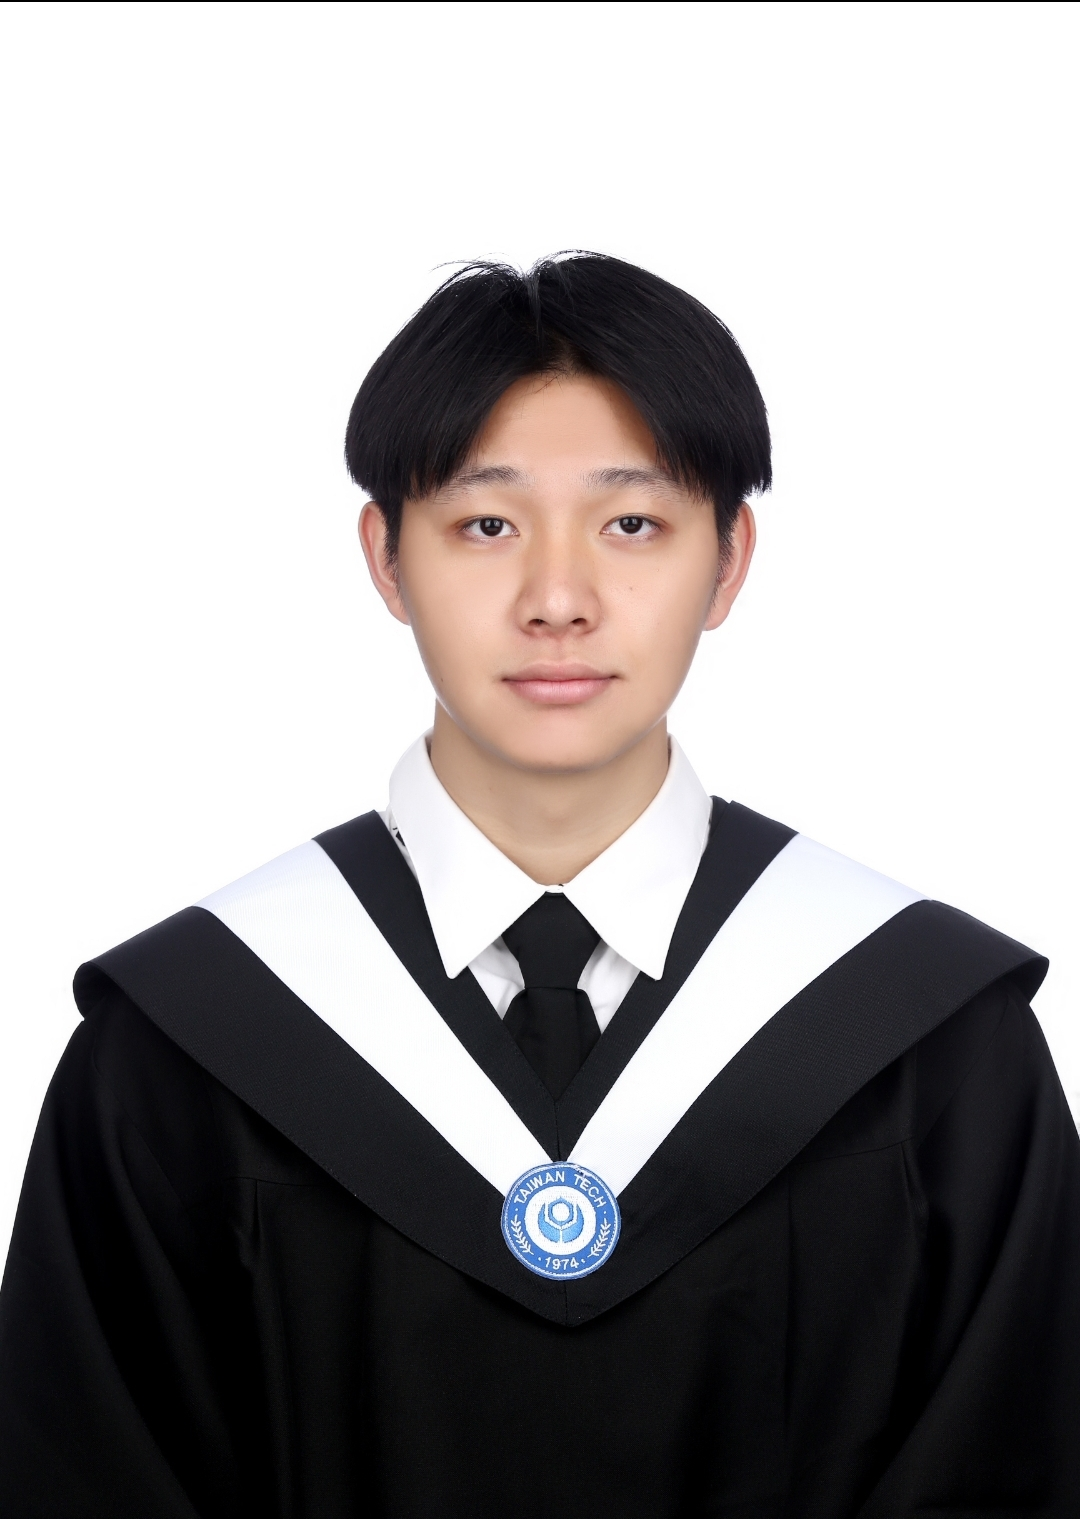
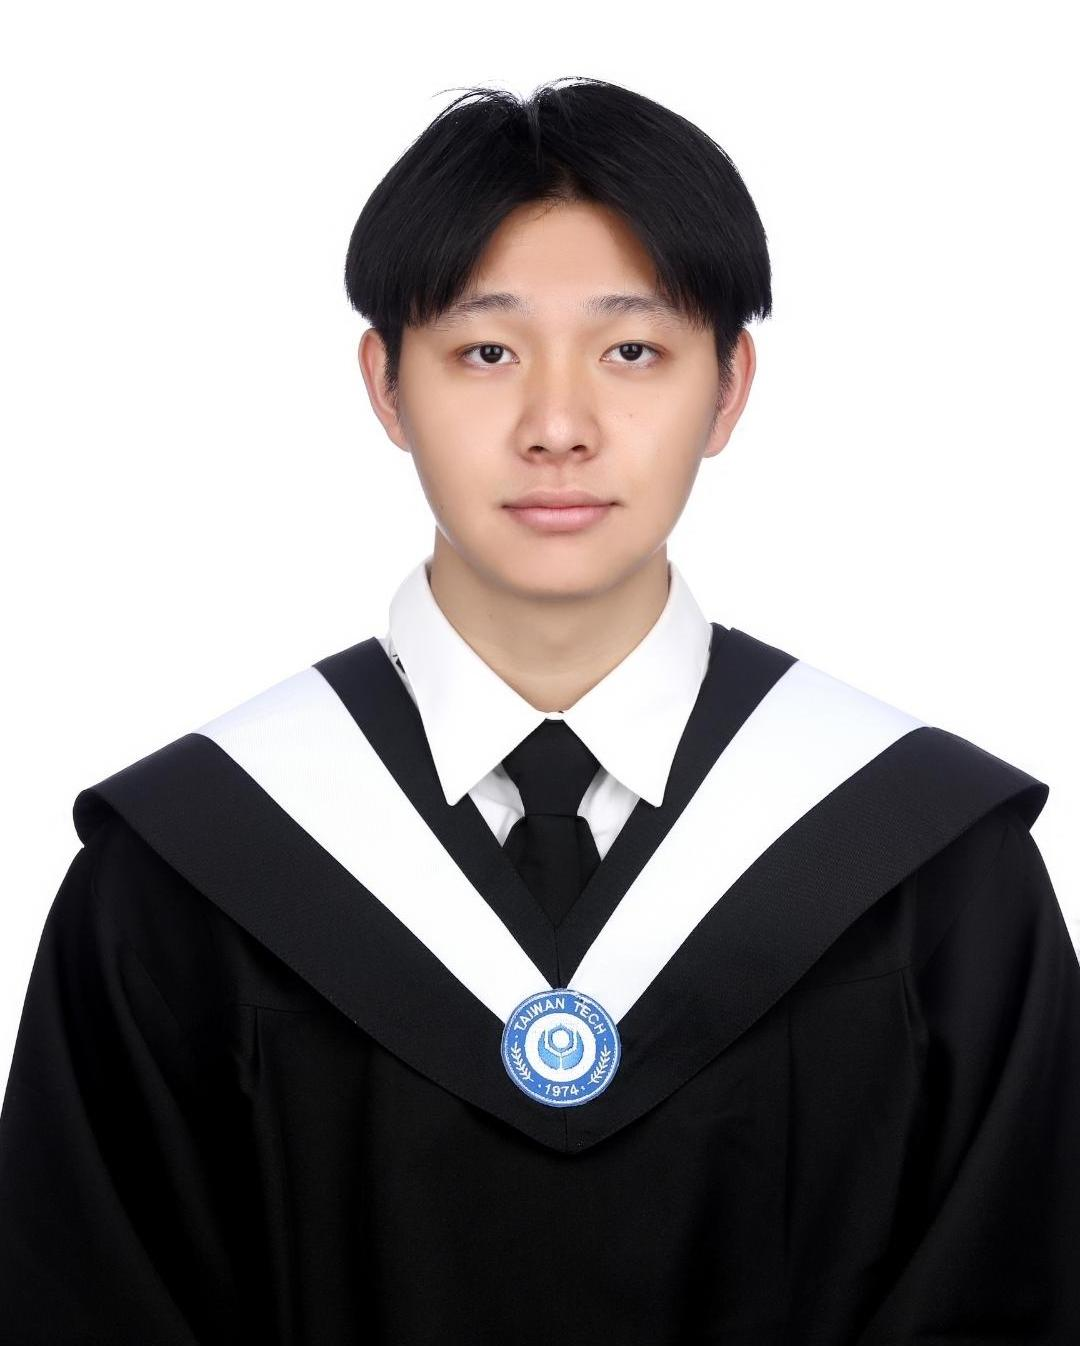
Feat: fix image size as 200*250

Changed region(s): [[0.0, 0.0312, 1.0, 0.8425]]

diff --git a/people_ch.html b/people_ch.html
@@ -87,7 +87,7 @@
 				</p> -->
 			</div>
 			<div class="navigation">
-				<img src="people/Isabella.jpg" width="200" height="256">
+				<img src="people/Isabella.jpg" width="200" height="250">
 			</div>
 		</div>
 
@@ -253,7 +253,7 @@
 					<p>鴨子車, 鴨子船, 鴨子飛船</p>
 			</div>
 			<div class="navigation">
-				<img src="people/mf.jpg" width="200" >
+				<img src="people/mf.jpg" width="200" height="250">
 			</div>
 		</div>
 
@@ -271,7 +271,7 @@
 					<p>鴨子車</p>
 			</div>
 			<div class="navigation">
-				<img src="people/julie.jpg" width="200" >
+				<img src="people/julie.jpg" width="200" height="250">
 			</div>
 		</div>
 
@@ -289,7 +289,7 @@
 					<p>鴨子車</p>
 			</div>
 			<div class="navigation">
-				<img src="people/Welly.jpg" width="200" >
+				<img src="people/Welly.jpg" width="200" height="250">
 			</div>
 		</div>
 		
@@ -307,7 +307,7 @@
 					<p>鴨子車</p>
 			</div>
 			<div class="navigation">
-				<img src="people/mikePic.jpg" width="200" >
+				<img src="people/mikePic.jpg" width="200" height="250">
 			</div>
 		</div>
 
@@ -325,7 +325,7 @@
 					<p>鴨子車</p>
 			</div>
 			<div class="navigation">
-				<img src="people/Paul.jpg" width="200" >
+				<img src="people/Paul.jpg" width="200" height="250">
 			</div>
 		</div>
 
@@ -342,7 +342,7 @@
 					<p>鴨子車</p>
 			</div>
 			<div class="navigation">
-				<img src="people/Phoebe.jpg" width="200" >
+				<img src="people/Phoebe.jpg" width="200" height="250">
 			</div>
 		</div>
 		
@@ -358,7 +358,7 @@
 					<p>機器人</p>
 			</div>
 			<div class="navigation">
-				<img src="people/LeoWang.jpeg" width="200" >
+				<img src="people/LeoWang.jpeg" width="200" height="250">
 			</div>
 		</div>
 
@@ -374,7 +374,7 @@
 					<p>機器學習</p>
 			</div>
 			<div class="navigation">
-				<img src="people/Arthur_Chen.jpg" width="200" >
+				<img src="people/Arthur_Chen.jpg" width="200" height="250">
 			</div>
 		</div>
 
@@ -390,7 +390,7 @@
 					<p>機器學習</p>
 			</div>
 			<div class="navigation">
-				<img src="people/amber.jpg" width="200" >
+				<img src="people/amber.jpg" width="200" height="250">
 			</div>
 		</div>
 
@@ -406,7 +406,7 @@
 				
 			</div>
 			<div class="navigation">
-				<img src="people/CJ.jpg" width="200" >
+				<img src="people/CJ.jpg" width="200" height="250">
 			</div>
 		</div>
 		
@@ -422,7 +422,7 @@
 				
 			</div>
 			<div class="navigation">
-				<img src="people/uwe.jpg" width="200" >
+				<img src="people/uwe.jpg" width="200" height="250">
 			</div>
 		</div>
 		
@@ -438,7 +438,7 @@
 				
 			</div>
 			<div class="navigation">
-				<img src="people/brianlan.jpg" width="200" >
+				<img src="people/brianlan.jpg" width="200" height="250">
 			</div>
 		</div>
 

diff --git a/people.html b/people.html
@@ -93,7 +93,7 @@
 				</p>
 			</div>
 			<div class="navigation">
-				<img src="people/Isabella.jpg" width="200">
+				<img src="people/Isabella.jpg" width="200" height="250">
 			</div>
 		</div>
 
@@ -312,7 +312,7 @@
 				
 			</div>
 			<div class="navigation">
-				<img src="people/mf.jpg" width="200" height='245'>
+				<img src="people/mf.jpg" width="200" height="250">
 			</div>
 		</div>
 
@@ -333,7 +333,7 @@
 				
 			</div>
 			<div class="navigation">
-				<img src="people/julie.jpg" width="200" height='245'>
+				<img src="people/julie.jpg" width="200" height="250">
 			</div>
 		</div>
 
@@ -354,7 +354,7 @@
 				
 			</div>
 			<div class="navigation">
-				<img src="people/Welly.jpg" width="200" height='245'>
+				<img src="people/Welly.jpg" width="200" height="250">
 			</div>
 		</div>
 		
@@ -375,7 +375,7 @@
 				
 			</div>
 			<div class="navigation">
-				<img src="people/mikePic.jpg" width="200" >
+				<img src="people/mikePic.jpg" width="200" height="250">
 			</div>
 		</div>
 
@@ -396,7 +396,7 @@
 				
 			</div>
 			<div class="navigation">
-				<img src="people/Paul.jpg" width="200" >
+				<img src="people/Paul.jpg" width="200" height="250">
 			</div>
 		</div>
 
@@ -414,7 +414,7 @@
 				
 			</div>
 			<div class="navigation">
-				<img src="people/Phoebe.jpg" width="200" >
+				<img src="people/Phoebe.jpg" width="200" height="250">
 			</div>
 		</div>
 		
@@ -433,7 +433,7 @@
 				
 			</div>
 			<div class="navigation">
-				<img src="people/LeoWang.jpeg" width="200" >
+				<img src="people/LeoWang.jpeg" width="200" height="250">
 			</div>
 		</div>
 
@@ -452,7 +452,7 @@
 				
 			</div>
 			<div class="navigation">
-				<img src="people/Arthur_Chen.jpg" width="200" >
+				<img src="people/Arthur_Chen.jpg" width="200" height="250">
 			</div>
 		</div>
 
@@ -471,7 +471,7 @@
 				
 			</div>
 			<div class="navigation">
-				<img src="people/amber.jpg" width="200" >
+				<img src="people/amber.jpg" width="200" height="250">
 			</div>
 		</div>
 		
@@ -487,7 +487,7 @@
 				
 			</div>
 			<div class="navigation">
-				<img src="people/CJ.jpg" width="200" >
+				<img src="people/CJ.jpg" width="200" height="250">
 			</div>		
 		</div>
 		
@@ -503,7 +503,7 @@
 				
 			</div>
 			<div class="navigation">
-				<img src="people/uwe.jpg" width="200" >
+				<img src="people/uwe.jpg" width="200" height="250">
 			</div>		
 		</div>
 		
@@ -519,7 +519,7 @@
 				
 			</div>
 			<div class="navigation">
-				<img src="people/brianlan.jpg" width="200" >
+				<img src="people/brianlan.jpg" width="200" height="250">
 			</div>		
 		</div>
 		
